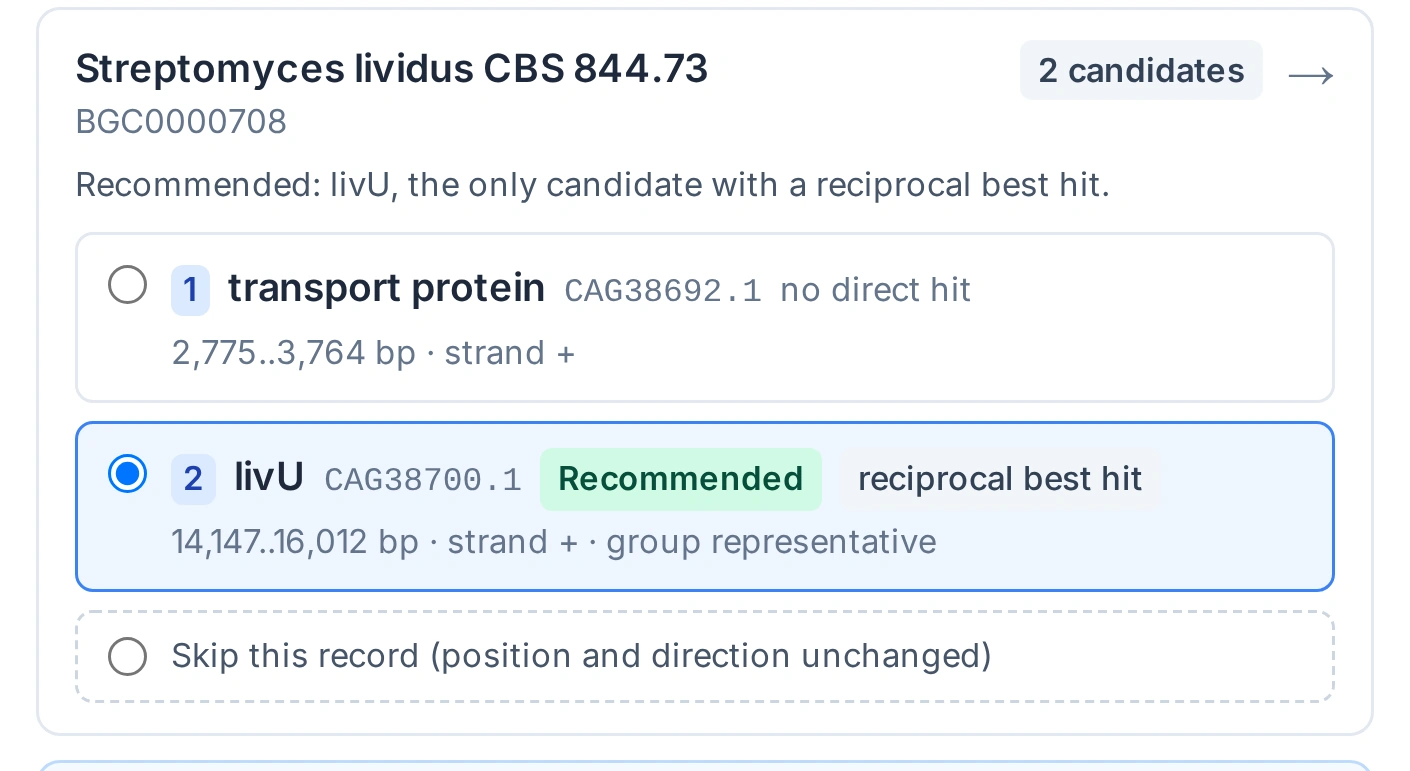
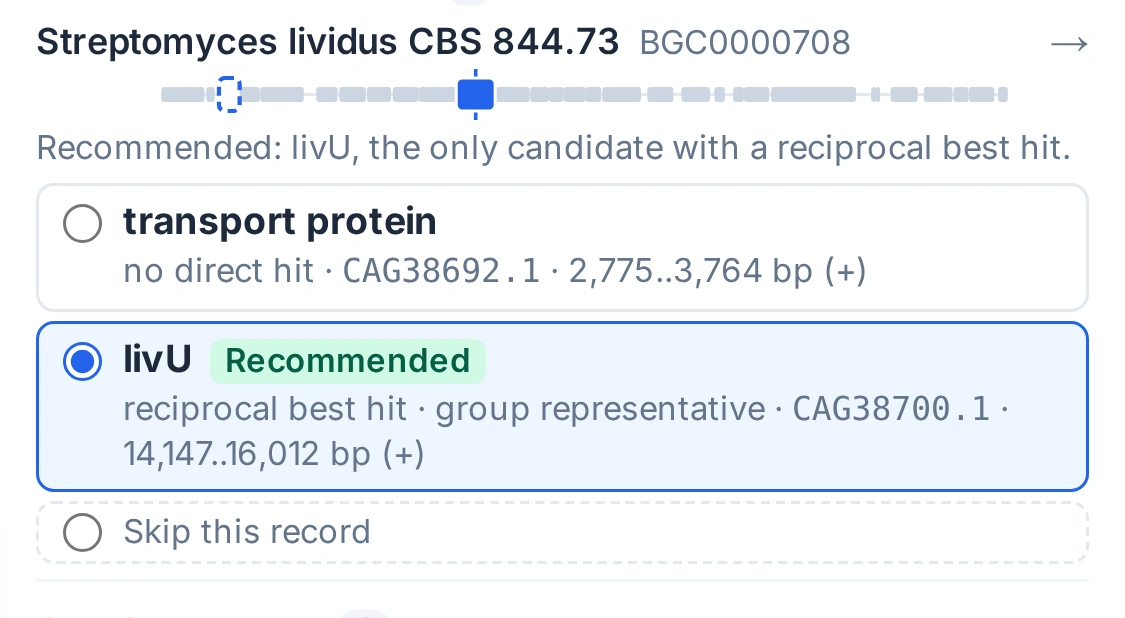
Recapture the Gallery review-alignment steps for the docked panel
manual-07-02 and manual-07-03 now show the docked Review alignment panel's
card (After Apply strip, recommendation note) and direction note. The tutorial
text describes the panel beside the figure instead of a dialog.

diff --git a/docs/internal/WEB_GALLERY_OPERATION_SCREENSHOT_REGISTER.md b/docs/internal/WEB_GALLERY_OPERATION_SCREENSHOT_REGISTER.md
@@ -43,7 +43,7 @@ deleted.
 | `BGC0000708-BGC0000713` | `manual-02-01-file1-defaults.webp`, `manual-03-01-file5-defaults.webp` | Add (replace `manual-02-01-record-text-row.webp`) | Replay through step 2 or 3; File 1 (or File 5 with **Add sequence**) from its header to **File defaults** | Captured at DSF 3; accepted |
 | `BGC0000708-BGC0000713` | `manual-04-01-preview-defaults.webp`, `manual-05-03-preview-losatp.webp`, `manual-06-02-preview-reversed.webp`, `manual-07-04-preview-aligned.webp`, `manual-08-02-preview-colors.webp`, `manual-09-02-preview-labels.webp`, `manual-10-04-preview-final.webp` | Add (replace `manual-08-04-aligned-preview.webp`) | Replay through the step; the whole SVG at 1100 px, preview controls hidden; state asserted per stage | Captured at DSF 3; accepted |
 | `BGC0000708-BGC0000713` | `manual-05-01-comparison-settings.webp` | Replace `manual-03-01-open-pairwise.webp` | Final Session; **Settings** open; LOSATP, Similarity groups, Minimum identity 30 | Captured at DSF 3; accepted |
-| `BGC0000708-BGC0000713` | `manual-07-01-align-og6.webp`, `manual-07-02-anchor-candidates.webp`, `manual-07-03-alignment-direction.webp` | Recapture (renamed from `manual-08-0x`) | Replay through step 6 (reversed, not yet aligned, default colors) | Captured at DSF 3; accepted |
+| `BGC0000708-BGC0000713` | `manual-07-01-align-og6.webp`, `manual-07-02-anchor-candidates.webp`, `manual-07-03-alignment-direction.webp` | Recapture (renamed from `manual-08-0x`) | Replay through step 6 (reversed, not yet aligned, default colors) | Captured at DSF 3; accepted. 2026-10-12: `-02` and `-03` recaptured for the docked Review alignment panel (After Apply strip, no candidate numbers); `-01` (popup opener) is byte-identical |
 | `BGC0000708-BGC0000713` | `manual-08-01-specific-rules-all.webp`, `manual-09-01-show-labels-first.webp`, `manual-10-01-arrow-shaft-width.webp`, `manual-10-02-scale-style-ruler.webp`, `manual-10-03-plot-title.webp`, `manual-11-01-orthogroup-popup.webp`, `manual-12-01-feature-popup.webp` | Recapture (renumbered) | Final Session. The og_18 popup now shows the computed group name: the old Session carried a rename of og_18 to livA that no step taught | Captured at DSF 3; accepted |
 | `BGC0000708-BGC0000713` | `manual-03-02-runtime-reproducibility.webp`, `manual-03-03-first-comparison-boundary.webp`, `manual-03-04-first-raw-result.webp`, `manual-04-03-track-layout-middle.webp`, `manual-06-02-record-labels.webp` | Delete | None: the progressive tutorial shows only controls the reader changes (Track Layout Middle and the record-label visibility are defaults) | Deleted |
 
